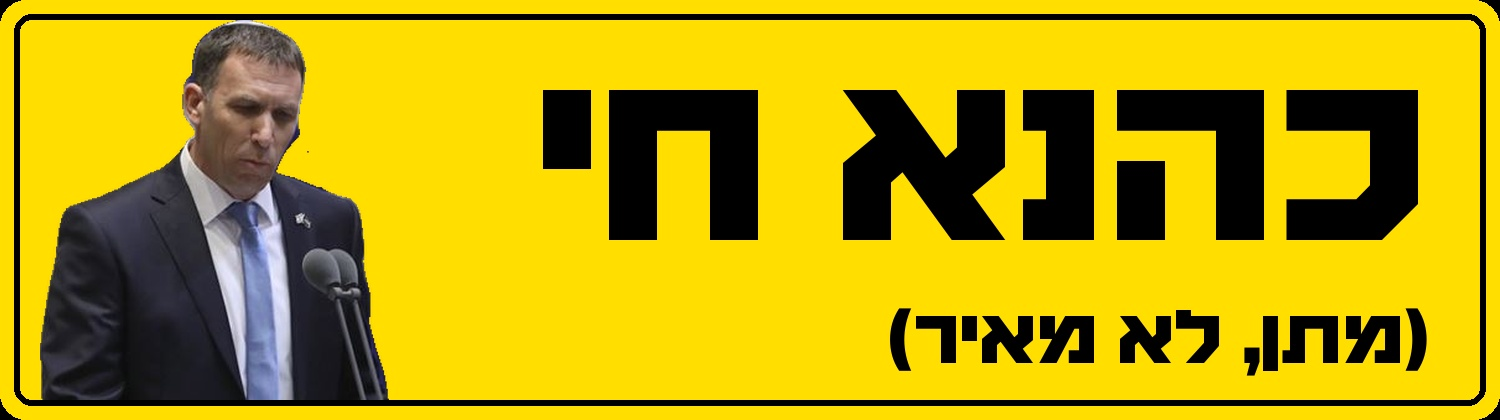
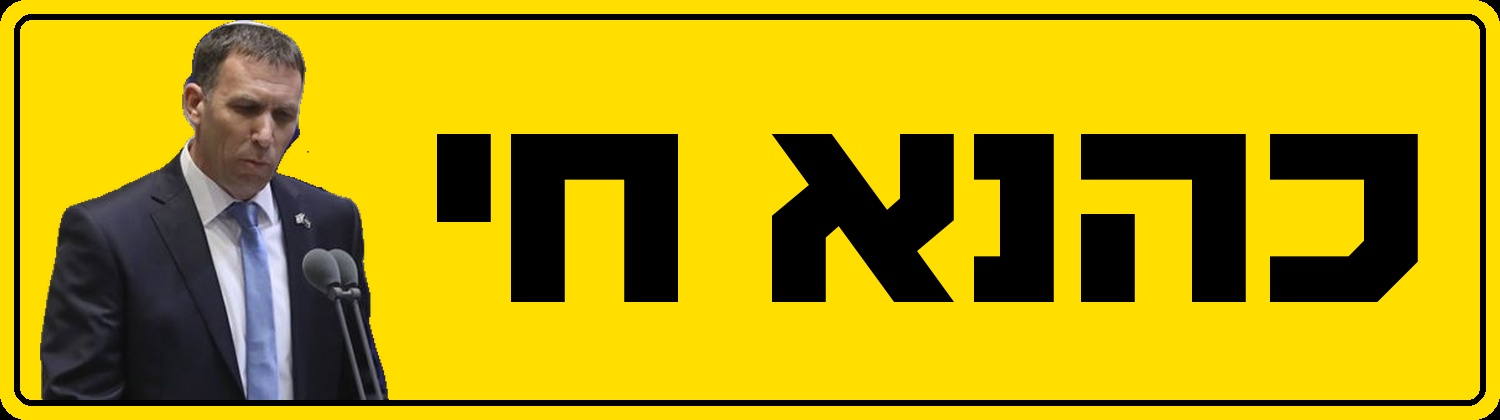
Personal sticker: drop clarifier line
Claude-Session: https://claude.ai/code/session_01RS3QK6pAd3YhyAuXZSJjH1

Changed region(s): [[0.276, 0.1857, 0.9507, 0.8976]]

diff --git a/content-kit/personal/2026-11-sticker-kahana/make_bumper.py b/content-kit/personal/2026-11-sticker-kahana/make_bumper.py
@@ -12,6 +12,5 @@ m = Image.new('L', (W, H), 0); ImageDraw.Draw(m).rounded_rectangle((20, 20, W - 
 lay = Image.new('RGBA', (W, H), (0, 0, 0, 0)); lay.alpha_composite(cut, (40, H - 20 - cut.height))
 im.alpha_composite(Image.composite(lay, Image.new('RGBA', (W, H), (0, 0, 0, 0)), m))
 d = ImageDraw.Draw(im); xr = W - 70
-d.text((xr, 40), 'כהנא חי', font=F(250), fill=K, anchor='ra', direction='rtl')
-d.text((xr, 300), '(מתן, לא מאיר)', font=F(78), fill=K, anchor='ra', direction='rtl')
-im.save(HERE + '/bumper.png'); im.convert('RGB').save(HERE + '/bumper.jpg', quality=95); print(d.textbbox((xr, 40), 'כהנא חי', font=F(250), anchor='ra', direction='rtl'), cut.width)
+d.text((xr, H / 2 + 8), 'כהנא חי', font=F(280), fill=K, anchor='rm', direction='rtl')
+im.save(HERE + '/bumper.png'); im.convert('RGB').save(HERE + '/bumper.jpg', quality=95); print('ok')
